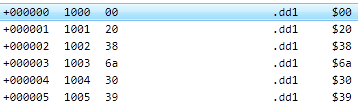
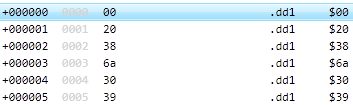
Update "digging deeper" tutorial
The tutorial was creating a new address region at +000002 without
removing the previous one, which leaves the 16-bit file load address
sitting at $1000 when it should be non-addressable.  The text now
shows the correct procedure.  Some screen shots had to be recaptured
to show the greyed-out address field.

This doesn't change anything meaningful about the disassembly -- the
PRG optimization hides the region start/end markers either way -- but
it's more correct this way, and it's an opportunity to introduce
the use of non-addressable regions for file headers.

diff --git a/docs/sgtutorial/digging-deeper.html b/docs/sgtutorial/digging-deeper.html
@@ -128,9 +128,15 @@
         <p>Click on the first line of code at address $1000, and select
         <samp>Actions &gt; Remove Analyzer Tags</samp>
         (<kbd class="key">Ctrl+H</kbd> <kbd class="key">Ctrl+R</kbd>).
-        This removes the "code entry point" tag.
-        Unfortunately the $20 is still auto-detected as being part of a string
-        directive.</p>
+        This removes the "code start point" tag.
+        Then, click on the <code>.addrs</code> line above it, and select
+        <samp>Actions &gt; Create / Edit Address Region</samp>.  Down
+        at the bottom, click <samp>Delete Region</samp>.  This
+        removes the default address region, replacing it with one that
+        says "<code>NA</code>", meaning that the code is non-addressable.
+        This is correct for the first two bytes, which will be
+        read by the system loader but not actually loaded into memory.
+        We still need to create a new address region at offset +000002.</p>
     </div>
 </div>
 
@@ -139,8 +145,10 @@
         <img src="images/t2-1000-edit2.png" alt="t2-1000-edit2"/>
     </div>
     <div class="grid-item-text">
-        <p>The string is making it hard to manipulate the next few bytes,
-        so let's fix that by selecting <samp>Edit &gt; Toggle Data Scan</samp>
+        <p>Unfortunately the $20 is still auto-detected as being part
+        of a string directive, which is making it hard to manipulate
+        the next few bytes.
+        Let's fix that by selecting <samp>Edit &gt; Toggle Data Scan</samp>
         (<kbd class="key">Ctrl+D</kbd>).  This turns off the feature that
         automatically generates string and <code>.FILL</code> directives,
         so now each uncategorized byte is on its own line.</p>
@@ -155,7 +163,8 @@
         <p>You could select the first two lines and use
         <samp>Actions &gt; Edit Operand</samp> to format them as a 16-bit
         little-endian hex value, but there's a shortcut: select the first
-        line with data (address $1000), then <samp>Actions &gt; Format As Word</samp>
+        line with data (offset +000000), then
+        <samp>Actions &gt; Format As Word</samp>
         (<kbd class="key">Ctrl+W</kbd>).
         It automatically grabbed the following byte and combined them.</p>
     </div>
@@ -167,7 +176,7 @@
     </div>
     <div class="grid-item-text">
         <p>Since we currently believe $2000 is the load address for everything
-        that follows, click on the line with address $1002, select
+        that follows, click on the line with offset +000002, select
         <samp>Actions &gt; Create/Edit Address Region</samp>, and enter "2000"
         for the address.  Click <samp>OK</samp>.
         With that line still selected, use
